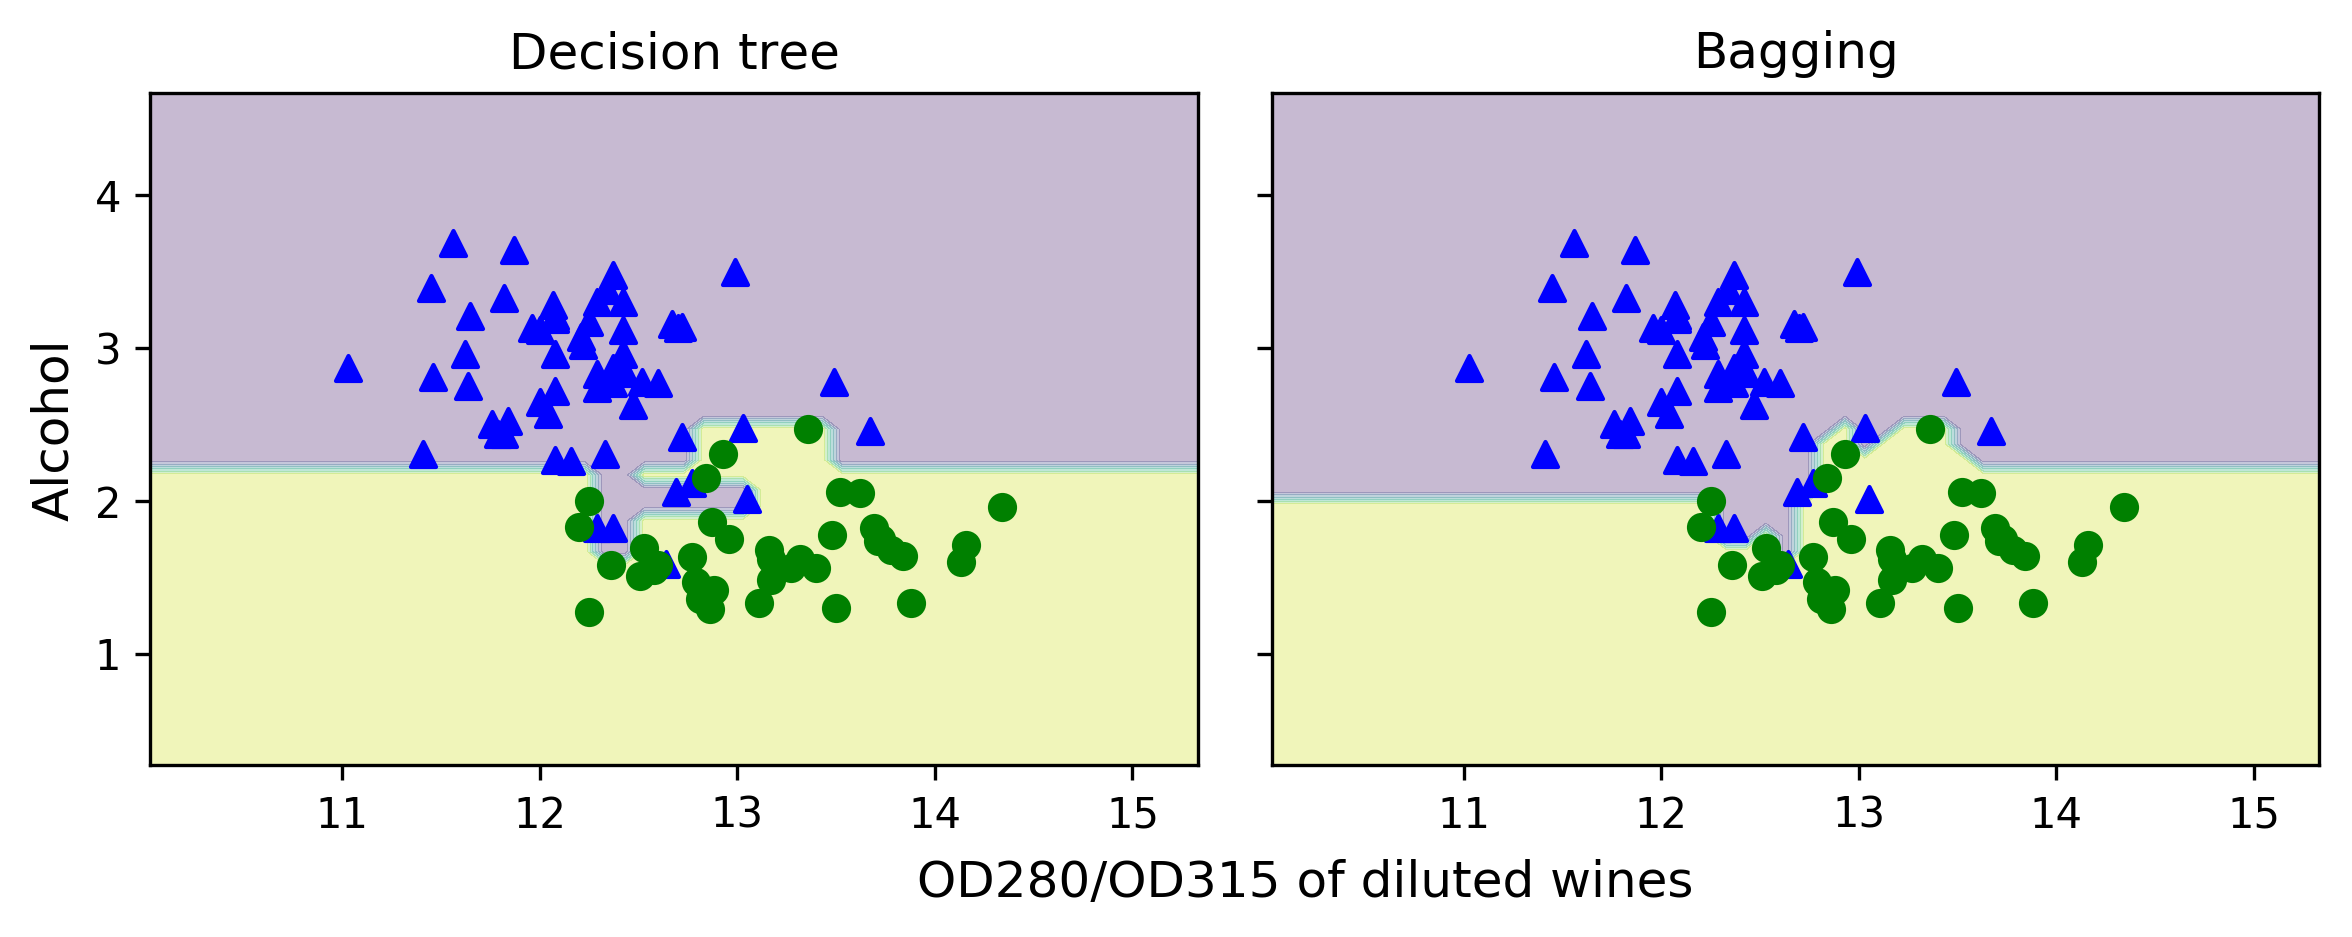
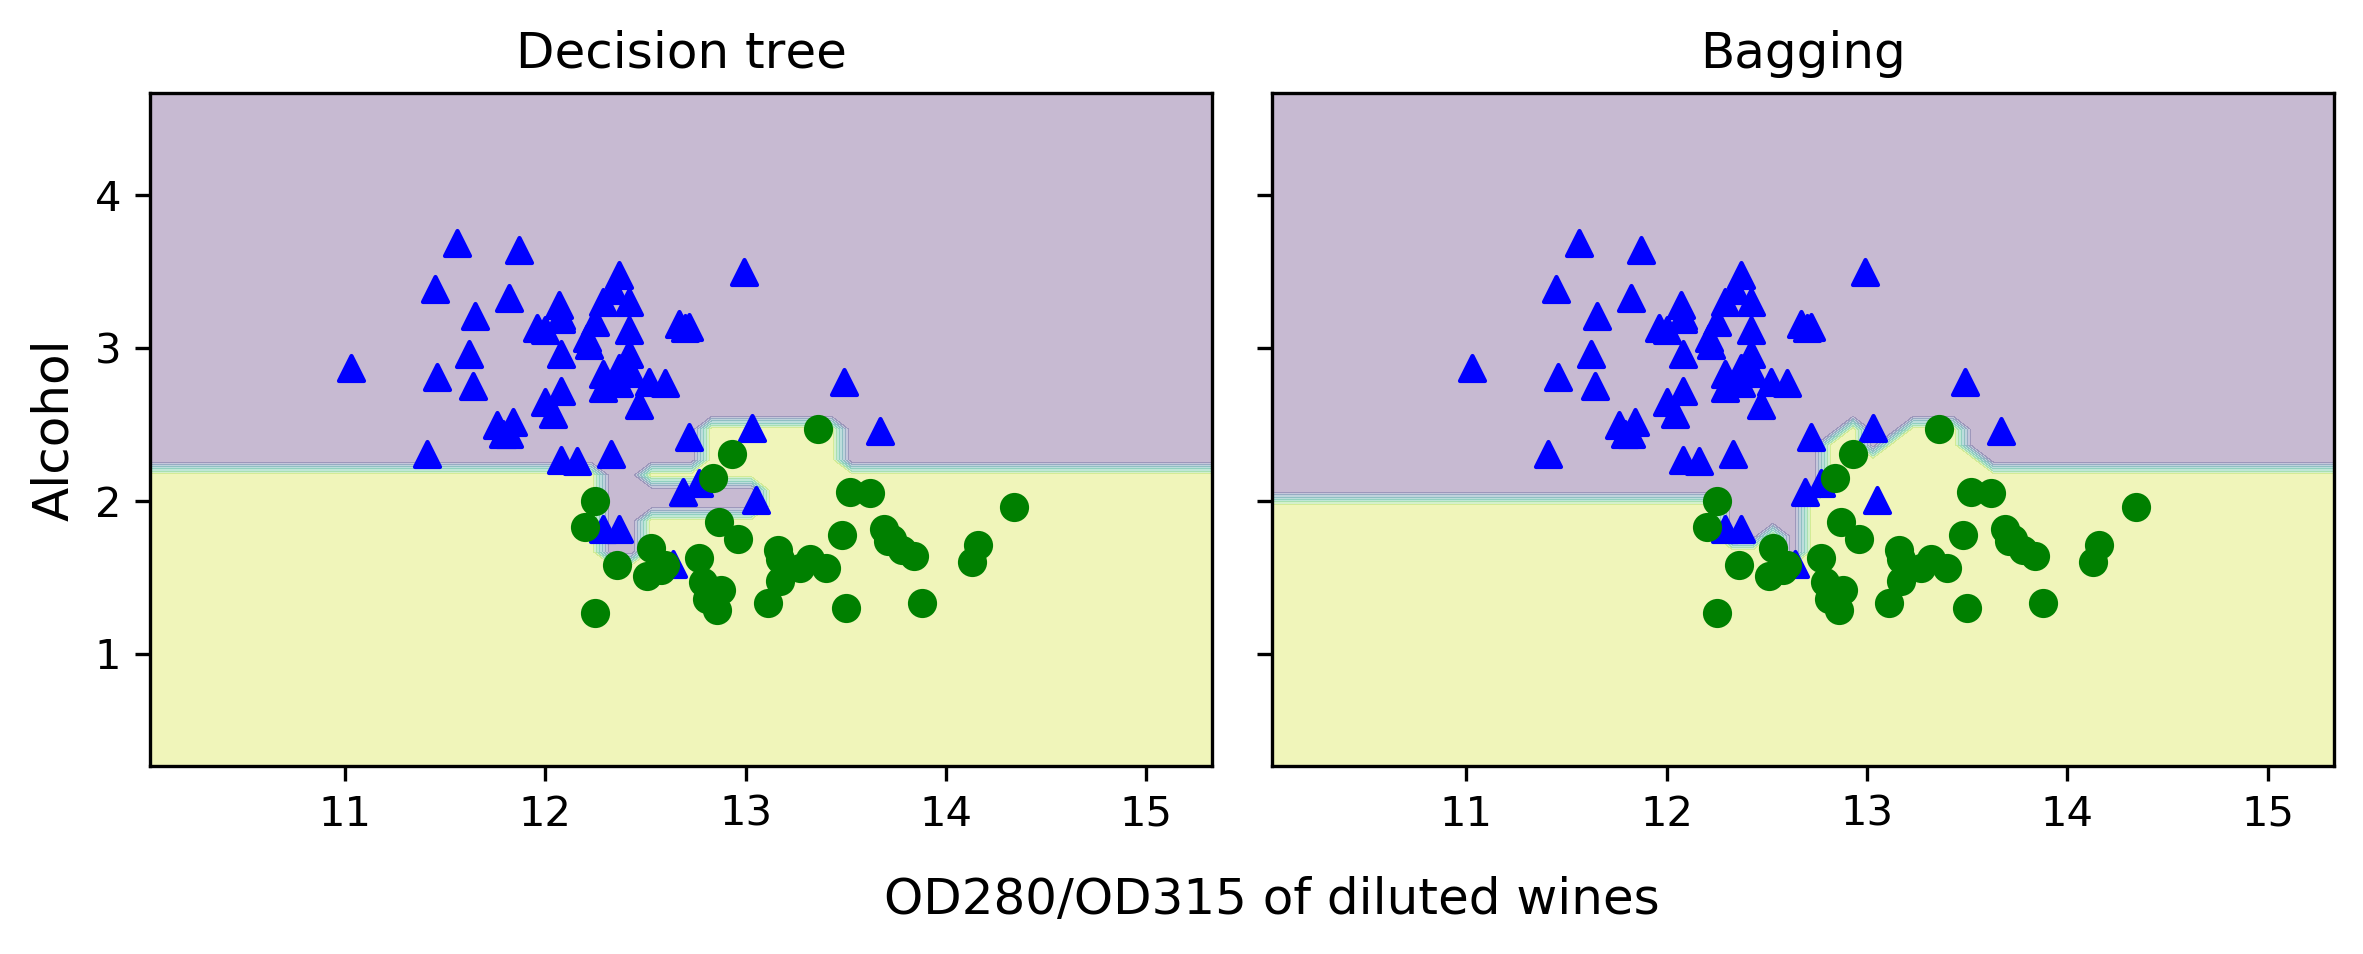
ch07 figure alignment

diff --git a/ch07/ch07.py b/ch07/ch07.py
@@ -44,7 +44,15 @@ from sklearn.ensemble import AdaBoostClassifier
 
 
 
-# *The use of `watermark` is optional. You can install this IPython extension via "`pip install watermark`". For more information, please see: https://github.com/rasbt/watermark.*
+# *The use of `watermark` is optional. You can install this Jupyter extension via*  
+# 
+#     conda install watermark -c conda-forge  
+# 
+# or  
+# 
+#     pip install watermark   
+# 
+# *For more information, please see: https://github.com/rasbt/watermark.*
 
 
 # ### Overview
@@ -459,25 +467,6 @@ mv_clf.get_params()
 
 
 
-params = {'decisiontreeclassifier__max_depth': [1, 2],
-          'pipeline-1__clf__C': [0.001, 0.1, 100.0]}
-
-grid = GridSearchCV(estimator=mv_clf,
-                    param_grid=params,
-                    cv=10,
-                    iid=False,
-                    scoring='roc_auc')
-grid.fit(X_train, y_train)
-
-for r, _ in enumerate(grid.cv_results_['mean_test_score']):
-    print("%0.3f +/- %0.2f %r"
-          % (grid.cv_results_['mean_test_score'][r], 
-             grid.cv_results_['std_test_score'][r] / 2.0, 
-             grid.cv_results_['params'][r]))
-
-
-
-
 
 params = {'decisiontreeclassifier__max_depth': [1, 2],
           'pipeline-1__clf__C': [0.001, 0.1, 100.0]}
@@ -664,11 +653,15 @@ for idx, clf, tt in zip([0, 1],
     axarr[idx].set_title(tt)
 
 axarr[0].set_ylabel('Alcohol', fontsize=12)
-plt.text(10.2, -0.5,
-         s='OD280/OD315 of diluted wines',
-         ha='center', va='center', fontsize=12)
 
 plt.tight_layout()
+plt.text(0, -0.2,
+         s='OD280/OD315 of diluted wines',
+         ha='center',
+         va='center',
+         fontsize=12,
+         transform=axarr[1].transAxes)
+
 #plt.savefig('images/07_08.png', dpi=300, bbox_inches='tight')
 plt.show()
 
@@ -750,11 +743,15 @@ for idx, clf, tt in zip([0, 1],
     axarr[idx].set_title(tt)
 
 axarr[0].set_ylabel('Alcohol', fontsize=12)
-plt.text(10.2, -0.5,
-         s='OD280/OD315 of diluted wines',
-         ha='center', va='center', fontsize=12)
 
 plt.tight_layout()
+plt.text(0, -0.2,
+         s='OD280/OD315 of diluted wines',
+         ha='center',
+         va='center',
+         fontsize=12,
+         transform=axarr[1].transAxes)
+
 #plt.savefig('images/07_11.png', dpi=300, bbox_inches='tight')
 plt.show()
 
